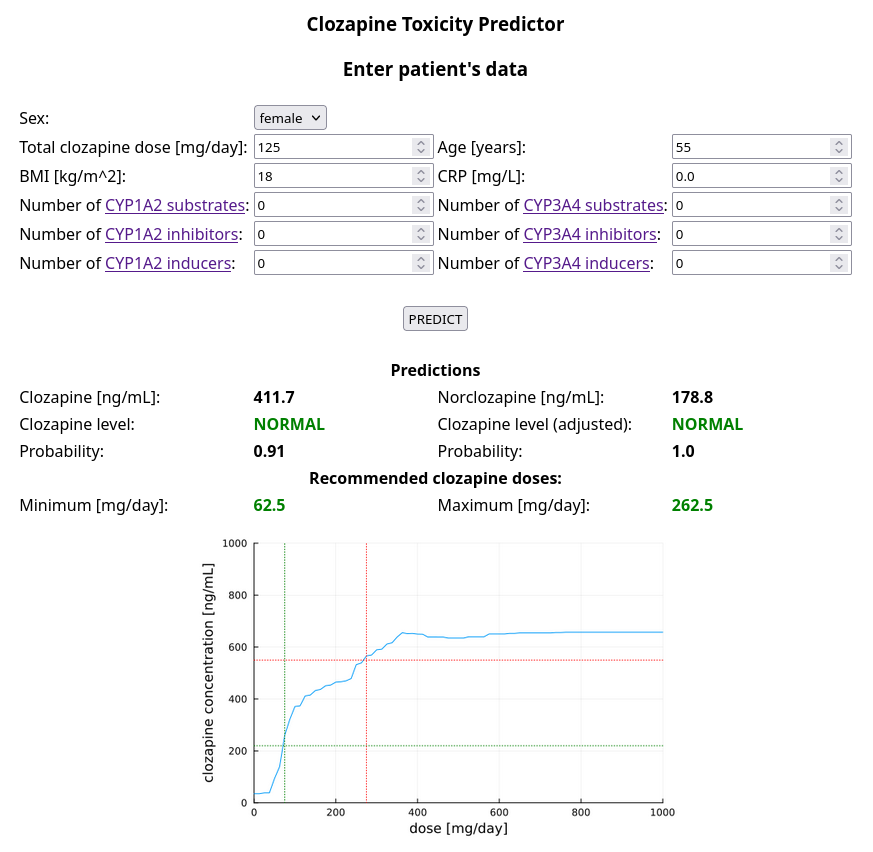
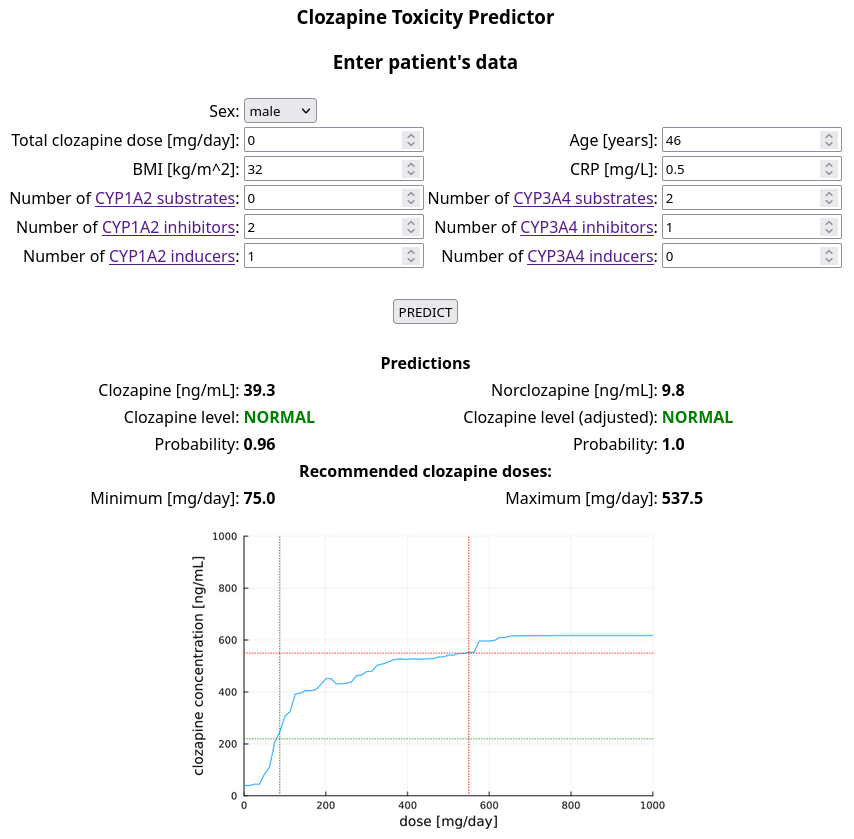
update: index.html, server.jl

diff --git a/index.html b/index.html
@@ -21,7 +21,7 @@
         </td>
       </tr>
       <tr>
-        <td>
+        <td style="text-align:right">
           <label for="sex">Sex:</label>
         </td>
         <td>
@@ -36,13 +36,13 @@
         </td>
       </tr>
       <tr>
-        <td>
+        <td style="text-align:right">
           <label for="clo_dose">Total clozapine dose [mg/day]:</label>
         </td>
         <td>
           <input type="number" id="clo_dose" name="clo_dose" min="0" max="2000" value="0" step="12.5">
         </td>
-        <td>
+        <td style="text-align:right">
           <label for="age">Age [years]:</label>
         </td>
         <td>
@@ -50,13 +50,13 @@
         </td>
       </tr>
       <tr>
-        <td>
+        <td style="text-align:right">
           <label for="bmi">BMI [kg/m^2]:</label>
         </td>
         <td>
           <input type="number" id="bmi" name="bmi" min="0" max="100" value="25" step="0.1">
         </td>
-        <td>
+        <td style="text-align:right">
           <label for="crp">CRP [mg/L]:</label>
         </td>
         <td>
@@ -64,13 +64,13 @@
         </td>
       </tr>
       <tr>
-        <td>
+        <td style="text-align:right">
           <label for="1a2_s">Number of <a href="https://codeberg.org/AdamWysokinski/CTP.jl/src/branch/main/1a2_substrates.md" target=_blank>CYP1A2 substrates</a>:</label>
         </td>
         <td>
           <input type="number" id="1a2_s" name="1a2_s" min="0" max="10" value="0">
         </td>
-        <td>
+        <td style="text-align:right">
           <label for="3a4_s">Number of <a href="https://codeberg.org/AdamWysokinski/CTP.jl/src/branch/main/3a4_substrates.md" target=_blank>CYP3A4 substrates</a>:</label>
         </td>
         <td>
@@ -78,13 +78,13 @@
         </td>
       </tr>
         <tr>
-          <td>
+          <td style="text-align:right">
             <label for="1a2_inh">Number of <a href="https://codeberg.org/AdamWysokinski/CTP.jl/src/branch/main/1a2_inhibitors.md" target=_blank>CYP1A2 inhibitors</a>:</label>
           </td>
           <td>
             <input type="number" id="1a2_inh" name="1a2_inh" min="0" max="10" value="0">
           </td>
-          <td>
+          <td style="text-align:right">
             <label for="3a4_inh">Number of <a href="https://codeberg.org/AdamWysokinski/CTP.jl/src/branch/main/3a4_inhibitors.md" target=_blank>CYP3A4 inhibitors</a>:</label>
           </td>
           <td>
@@ -92,13 +92,13 @@
           </td>
         </tr>
         <tr>
-          <td>
+          <td style="text-align:right">
             <label for="1a2_ind">Number of <a href="https://codeberg.org/AdamWysokinski/CTP.jl/src/branch/main/1a2_inducers.md" target=_blank>CYP1A2 inducers</a>:</label>
           </td>
           <td>
             <input type="number" id="1a2_ind" name="1a2_ind" min="0" max="10" value="0">
           </td>
-          <td>
+          <td style="text-align:right">
             <label for="3a4_ind">Number of <a href="https://codeberg.org/AdamWysokinski/CTP.jl/src/branch/main/3a4_inducers.md" target=_blank>CYP3A4 inducers</a>:</label>
           </td>
           <td>
@@ -126,21 +126,21 @@
           </td>
         </tr>
         <tr>
-          <td>Clozapine [ng/mL]:</td>
+          <td style="text-align:right">Clozapine [ng/mL]:</td>
           <td id="clo_level" style="font-weight:bold"></td>
-          <td>Norclozapine [ng/mL]:</td>
+          <td style="text-align:right">Norclozapine [ng/mL]:</td>
           <td id="nclo_level" style="font-weight:bold"></td>
         </tr>
         <tr>
-          <td>Clozapine level:</td>
+          <td style="text-align:right">Clozapine level:</td>
           <td id="clo_group" style="font-weight:bold"></td>
-          <td>Clozapine level (adjusted):</td>
+          <td style="text-align:right">Clozapine level (adjusted):</td>
           <td id="clo_group_adj" style="font-weight:bold"></td>
         </tr>
         <tr>
-          <td>Probability:</td>
+          <td style="text-align:right">Probability:</td>
           <td id="clo_group_p" style="font-weight:bold"></td>
-          <td>Probability:</td>
+          <td style="text-align:right">Probability:</td>
           <td id="clo_group_adj_p" style="font-weight:bold"></td>
         </tr>
         <tr>
@@ -151,10 +151,10 @@
           </td>
         </tr>
         <tr>
-          <td>Minimum [mg/day]:</td>
-          <td id="dose1" style="color:Green; font-weight:bold"></td>
-          <td>Maximum [mg/day]:</td>
-          <td id="dose2" style="color:Green; font-weight:bold"></td>
+          <td style="text-align:right">Minimum [mg/day]:</td>
+          <td id="dose1" style="font-weight:bold"></td>
+          <td style="text-align:right">Maximum [mg/day]:</td>
+          <td id="dose2" style="font-weight:bold"></td>
         </tr>
         <tr>      
           <td colspan=4>
@@ -192,7 +192,6 @@
         })
       });
       const clo_prediction_response = await response.text();
-      console.log(clo_prediction_response);
       clo_group = clo_prediction_response.split(" ")[0];
       clo_group_p = clo_prediction_response.split(" ")[1];
       clo_group_adj = clo_prediction_response.split(" ")[2];
